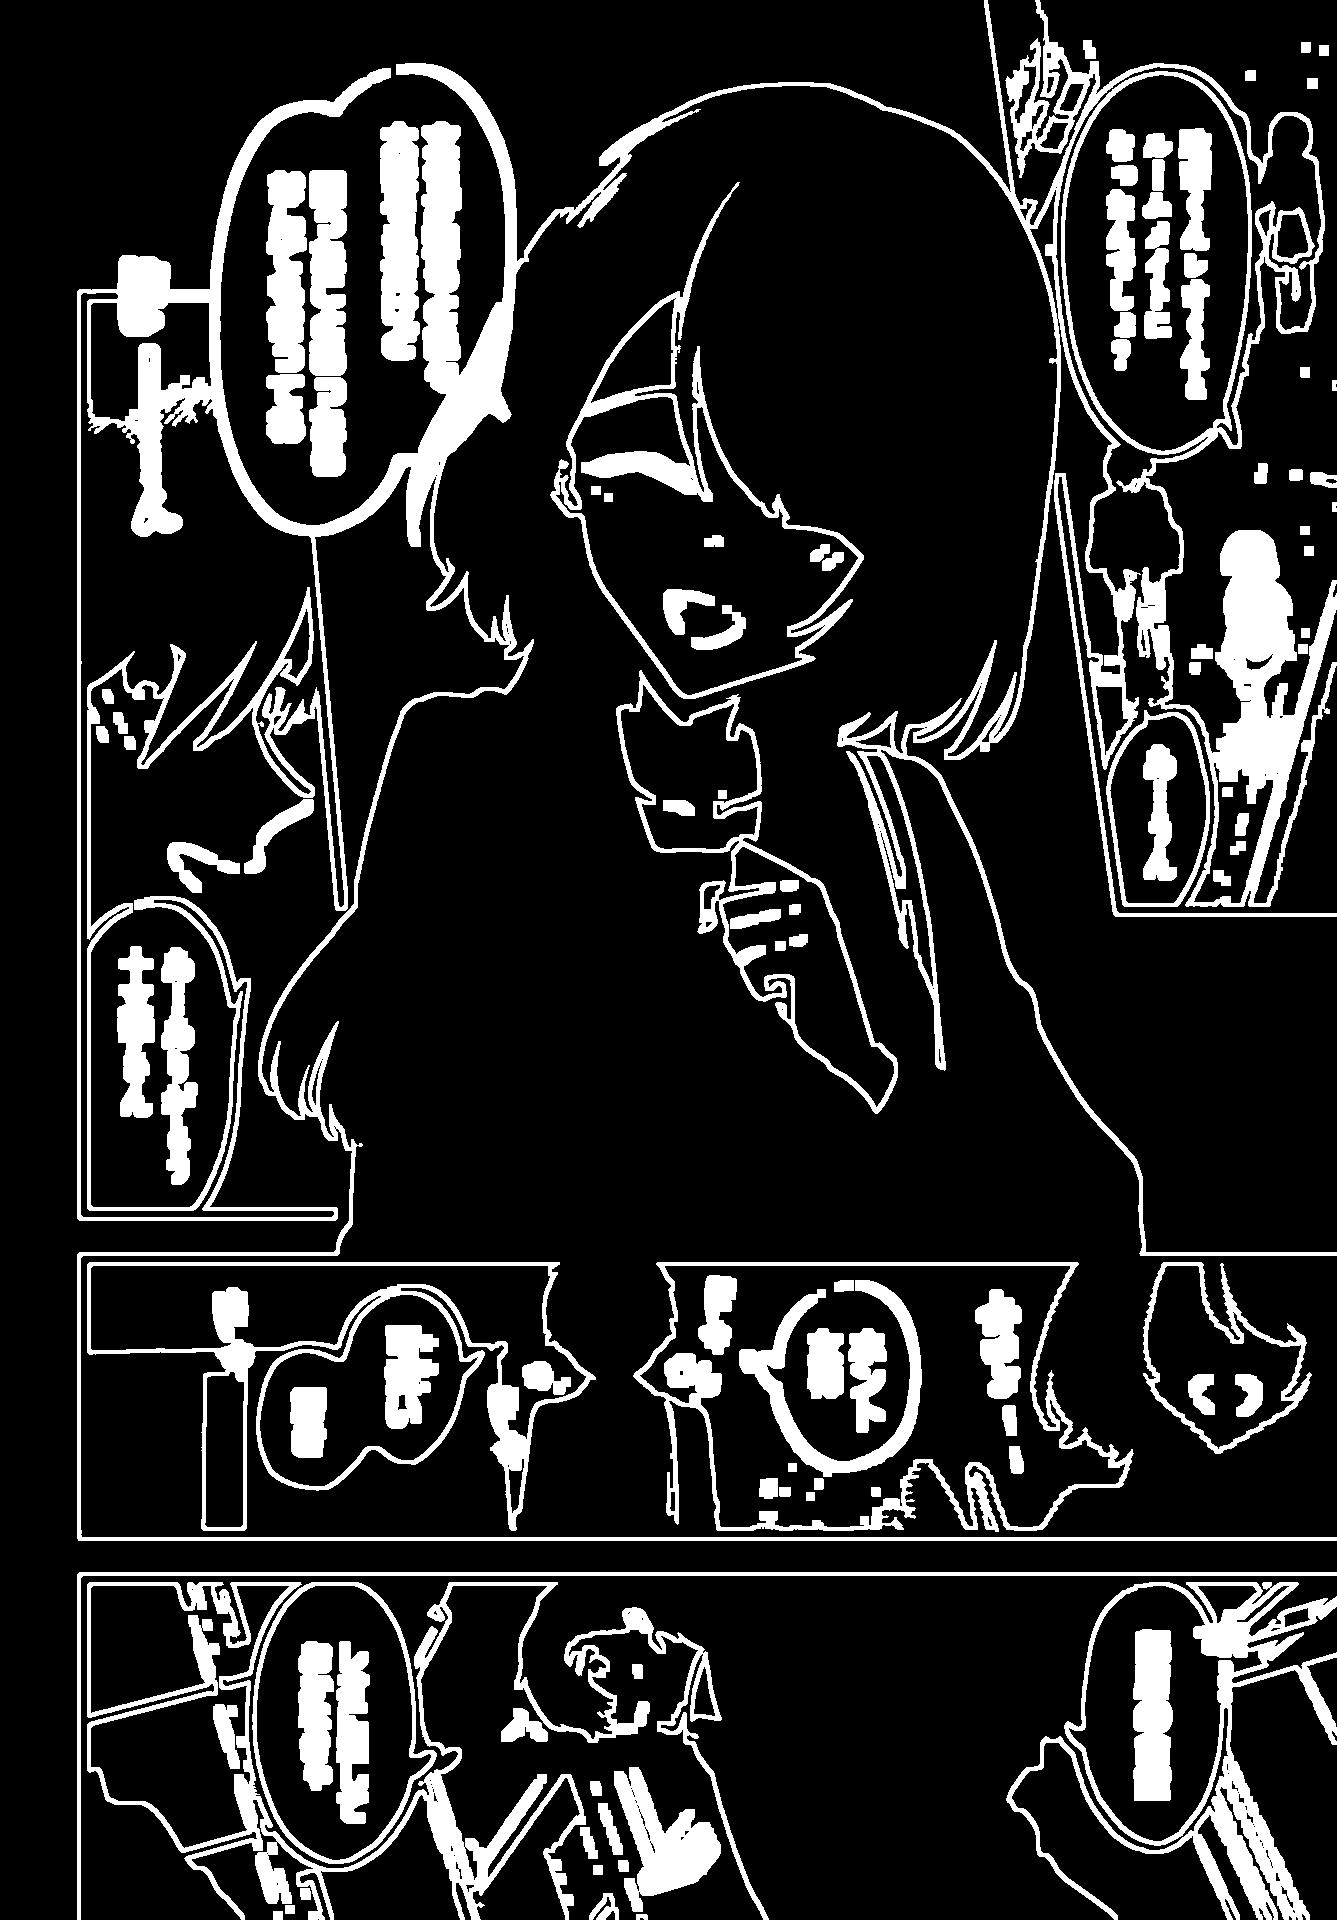
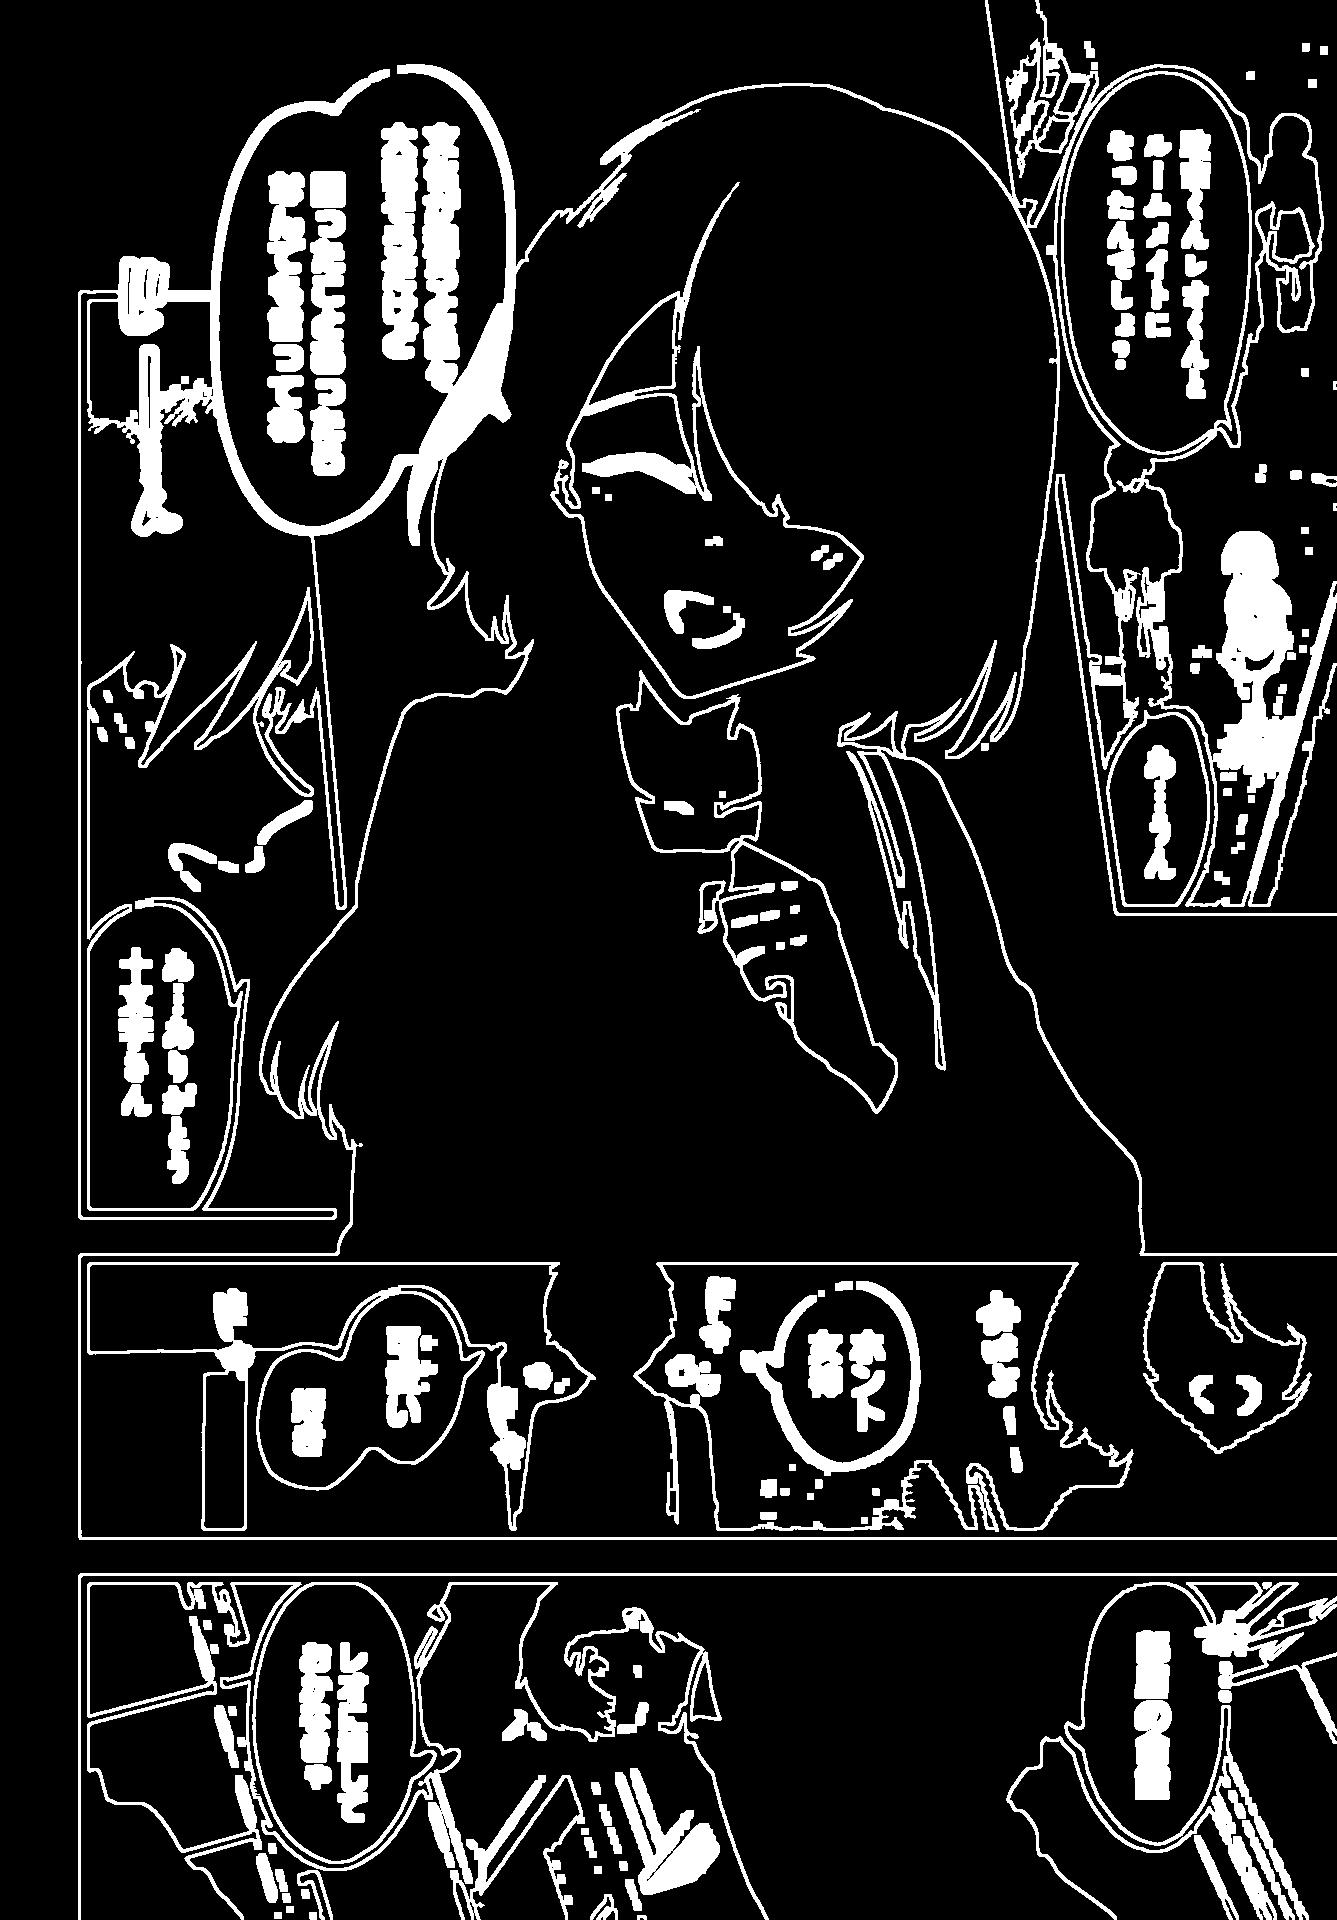
started cluster algorithm for contours

diff --git a/lib/types/page.py b/lib/types/page.py
@@ -1,3 +1,4 @@
+import random # type: ignore
 import cv2
 import numpy as np
 from sklearn.cluster import DBSCAN
@@ -6,7 +7,7 @@ from datetime import datetime as dt
 from lib.misc import CropBox, drawBoundingBox
 import cv2.typing
 import manga_ocr # type: ignore
-from PIL import Image
+from PIL import Image # type: ignore
 
 class Page:
 	def __init__(self, img:cv2.Mat, mocr:manga_ocr.MangaOcr) -> None:
@@ -14,51 +15,76 @@ class Page:
 		self.img:cv2.Mat = img
 		self.area:int = img.shape[0]*img.shape[1]
 		start:dt = dt.now()
-		self.mask:cv2.Mat = self.createMask()
+		self.mask:cv2.Mat = self.createMask(cv2.cvtColor(self.img, cv2.COLOR_BGR2GRAY)) # type: ignore
 		self.bubbles:list[Bubble] = self.conjectBubbles()
 		self.bubbles = [b for b in self.bubbles if b.hasContent]
 		# for b in self.bubbles:
 		# 	b.translate()
 		end:dt = dt.now()
 		self.img = self.drawTextBounds(self.img)
-		# Image.fromarray(self.img).show()
 		self.tDelta:float = (end-start).total_seconds()*1000
 
-	def createMask(self) -> cv2.Mat:
-		# threshed:cv2.Mat = cv2.threshold(cv2.GaussianBlur(self.img, (9,9), 5), 200, 255, cv2.THRESH_BINARY)[1] # type: ignore // reduced threshold less black
-		threshed:cv2.Mat = cv2.threshold(cv2.cvtColor(cv2.medianBlur(self.img, 5), cv2.COLOR_BGR2GRAY), 200, 255, cv2.THRESH_BINARY)[1] # type: ignore // reduced threshold less black
-		morphed:cv2.Mat = cv2.morphologyEx(threshed, cv2.MORPH_RECT, cv2.getStructuringElement(cv2.MORPH_RECT,(9,9))) # type: ignore // (9,9) < -> less thick > -> thicker
-		contours:list[cv2.Mat] = cv2.findContours(threshed, cv2.RETR_TREE, cv2.CHAIN_APPROX_SIMPLE)[0]
-		filtered_contours:list[cv2.Mat] = [contour for contour in contours if cv2.contourArea(contour) > 15000 and cv2.mean(morphed, mask=cv2.bitwise_not(morphed))[0] == 0]
+	def createMask(self, img:cv2.Mat) -> cv2.Mat:
+		threshed:cv2.Mat = cv2.threshold(cv2.medianBlur(img, 5), 200, 255, cv2.THRESH_BINARY)[1] # type: ignore // reduced threshold less black
+		morphed:cv2.Mat = cv2.morphologyEx(threshed, cv2.MORPH_RECT, cv2.getStructuringElement(cv2.MORPH_RECT,(7,7))) # type: ignore // (9,9) < -> less thick > -> thicker
+		contours:list[cv2.Mat] = cv2.findContours(threshed, cv2.RETR_CCOMP, cv2.CHAIN_APPROX_SIMPLE)[0] # type: ignore
+		filteredContours:list[cv2.Mat] = [contour for contour in contours if cv2.contourArea(contour) > 15000 and cv2.mean(morphed, mask=cv2.bitwise_not(morphed))[0] == 0]
 		mask:cv2.Mat = np.zeros_like(morphed)
-		cv2.drawContours(mask, filtered_contours, -1, 1, thickness=cv2.FILLED)
+		cv2.drawContours(mask, filteredContours, -1, 1, thickness=cv2.FILLED) # type: ignore
 		morphed = cv2.bitwise_not(morphed) # type: ignore
-		return cv2.bitwise_and(morphed, morphed, mask=mask)
+		return cv2.bitwise_and(morphed, morphed, mask=mask) # type: ignore
 
 	def conjectBubbles(self) -> list[Bubble]:
 		bbs:list[Bubble] = []
 		gray = cv2.cvtColor(self.img, cv2.COLOR_BGR2GRAY)
 		gray = cv2.bitwise_and(gray, self.mask)
 		
-		blurred:cv2.Mat = cv2.GaussianBlur(gray, (3,3), 15) # type: ignore // sigma 0, 1 or 2
+		blurred:cv2.Mat = cv2.medianBlur(gray, 3) # type: ignore
 		threshed:cv2.Mat = cv2.threshold(blurred, 200, 255, cv2.THRESH_BINARY)[1] # type: ignore
-		blurred2:cv2.Mat = cv2.GaussianBlur(threshed, (3,3), 15) # type: ignore // sigma 0, 1 or 2
 
-		contours:list[cv2.Mat] = cv2.findContours(blurred2, cv2.RETR_CCOMP, cv2.CHAIN_APPROX_SIMPLE)[0]
-		self.img=cv2.cvtColor(blurred2, cv2.COLOR_GRAY2BGR)
-		for contour in contours:
-			if len(contour) <= 0: continue
-			perimeter = cv2.arcLength(contour, True)
-			color:tuple[int,int,int] = (0,255,255) if perimeter < 550 else (255,0,255)
-			if perimeter > 550: continue
-			area:float = cv2.contourArea(contour)
-			length:float = cv2.arcLength(contour, True)
-			if length > self.img.shape[1]*.75: continue
+		contours:list[cv2.Mat] = cv2.findContours(threshed, cv2.RETR_TREE, cv2.CHAIN_APPROX_SIMPLE)[0] # type: ignore
+		self.img=cv2.cvtColor(threshed, cv2.COLOR_GRAY2BGR) # type: ignore		
+		filtered:list[cv2.Mat] = []
+		for c in range(len(contours)):
+			if len(contours[c]) <= 0: continue
+			perimeter = cv2.arcLength(contours[c], True)
+			# color:tuple[int,int,int] = (0,255,255) if perimeter < 550 else (255,0,255)
+			# color:tuple[int,int,int] = (random.randint(1,256),random.randint(1,256),random.randint(1,256))
+			if perimeter > self.img.shape[1]*.42: continue
+			area:float = cv2.contourArea(contours[c])
 			if not self.area*.00003 < area < self.area*.005: continue
-			
-			
-			cv2.drawContours(self.img, [contour], -1, color, 2)
+			# approx = cv2.approxPolyDP(contours[c], 0.01 * cv2.arcLength(contours[c], True), True)
+
+			# color:tuple[int,int,int] = (0,255,255) if len(approx) < 20 else (255,0,255)
+
+			# if len(approx) !=12: continue
+			# if (abs(len(contours[c])-len(contours[c-1])) > 5 and abs(len(contours[c])-len(contours[c+1])) > 5) if c+1<len(contours) else False: continue 
+			# cv2.drawContours(self.img, [contours[c]], -1, color, 2)
+			filtered.append(contours[c])
+		a = 255/ len(filtered)
+		for c in range(len(filtered)):
+			color:tuple[int,int,int] = (0,255,a*c) if c%2==0 else (255,0,a*c)
+			drawBoundingBox(self.img, *cv2.boundingRect(filtered[c]), text=str(c), color=color)
+		self.cluster(filtered)
 		return bbs
+
+	def cluster(self, contours:list[cv2.Mat]) -> list[cv2.Mat]:
+		clusters:dict[int, list[tuple[float, int, int]]] = {}
+		c:int = 0
+		for i in range(len(contours)-1):
+			M1 = cv2.moments(contours[i])
+			cX1 = int(M1['m10'] / M1['m00'])
+			cY1 = int(M1['m01'] / M1['m00'])
+			M2 = cv2.moments(contours[i+1])
+			cX2 = int(M2['m10'] / M2['m00'])
+			cY2 = int(M2['m01'] / M2['m00'])
+			distance = ((cX2 - cX1)**2 + (cY2 - cY1)**2)**0.5
+			if distance > 100: c+=1
+			try: clusters[c].append((distance, i, i+1))
+			except: clusters[c] = [(distance, i, i+1)]
+		for sc in clusters.items():
+			print(sc)
+
 
 	def conjectBubblesByBlobs(self) -> list[Bubble]:
 		bbs:list[Bubble] = []
@@ -67,7 +93,7 @@ class Page:
 		gray = cv2.bitwise_and(gray, self.mask)
 		blurred:cv2.Mat = cv2.GaussianBlur(gray, (3,3), 2) # type: ignore // sigma 0, 1 or 2
 		threshed:cv2.Mat = cv2.threshold(blurred, 150, 255, cv2.THRESH_BINARY)[1] # type: ignore
-		blurred2:cv2.Mat = cv2.GaussianBlur(threshed, (3,3), 1) # type: ignore // sigma 0, 1 or 2
+		blurred2:cv2.Mat = cv2.GaussianBlur(threshed, (3,3), 2) # type: ignore // sigma 0, 1 or 2
 		self.img=blurred2
 		keypoints = cv2.AgastFeatureDetector_create( # type: ignore
 			threshold=64,
@@ -108,7 +134,7 @@ class Page:
 			bbs.append(Bubble(self.img, CropBox(*br, tolerance=20), self.mocr))
 
 			# cv2.rectangle(mask, (br[0]-20, br[1]-20), (br[0] + br[2]+40, br[1] + br[3]+40), (255), -1) # type: ignore
-		self.img = cv2.drawKeypoints(self.img, keypoints, None, (255,0,255))
+		self.img = cv2.drawKeypoints(self.img, keypoints, None, (255,0,255)) # type: ignore
 		return bbs
 
 	def drawTextBounds(self, img:cv2.Mat) -> cv2.Mat:

diff --git a/lib/misc.py b/lib/misc.py
@@ -16,7 +16,7 @@ class CropBox:
 	def toTuple(self, tolerance:int=0) -> tuple[int, int, int, int]:
 		return (self.x-tolerance, self.y-tolerance, self.w+tolerance*2, self.h+tolerance*2)
 
-def drawBoundingBox(image:cv2.Mat,x:int,y:int,w:int,h:int,text:str|None=None, inset:bool=False) -> cv2.Mat:
+def drawBoundingBox(image:cv2.Mat,x:int,y:int,w:int,h:int,text:str|None=None, inset:bool=False, color:tuple[int,int,int]=(0,255,0)) -> cv2.Mat:
 	"""Draws a bounding box in an image
 
 	Args:
@@ -31,7 +31,7 @@ def drawBoundingBox(image:cv2.Mat,x:int,y:int,w:int,h:int,text:str|None=None, in
 	Returns:
 		cv2.Mat: Image with drawn boxes
 	"""
-	color:tuple[int,...] = (random.randint(1,256),random.randint(1,256),random.randint(1,256))
+	# color:tuple[int,...] = (random.randint(1,256),random.randint(1,256),random.randint(1,256))
 	cv2.rectangle(image, (x, y), (x + w, y + h), color, 2) # type: ignore
 	if text != None:
 		cv2.putText(image, text, (x if not inset else x+5, (y - 10) if not inset else (y + 20)), cv2.FONT_HERSHEY_SIMPLEX, 0.7, color, 2, cv2.LINE_AA) # type: ignore
